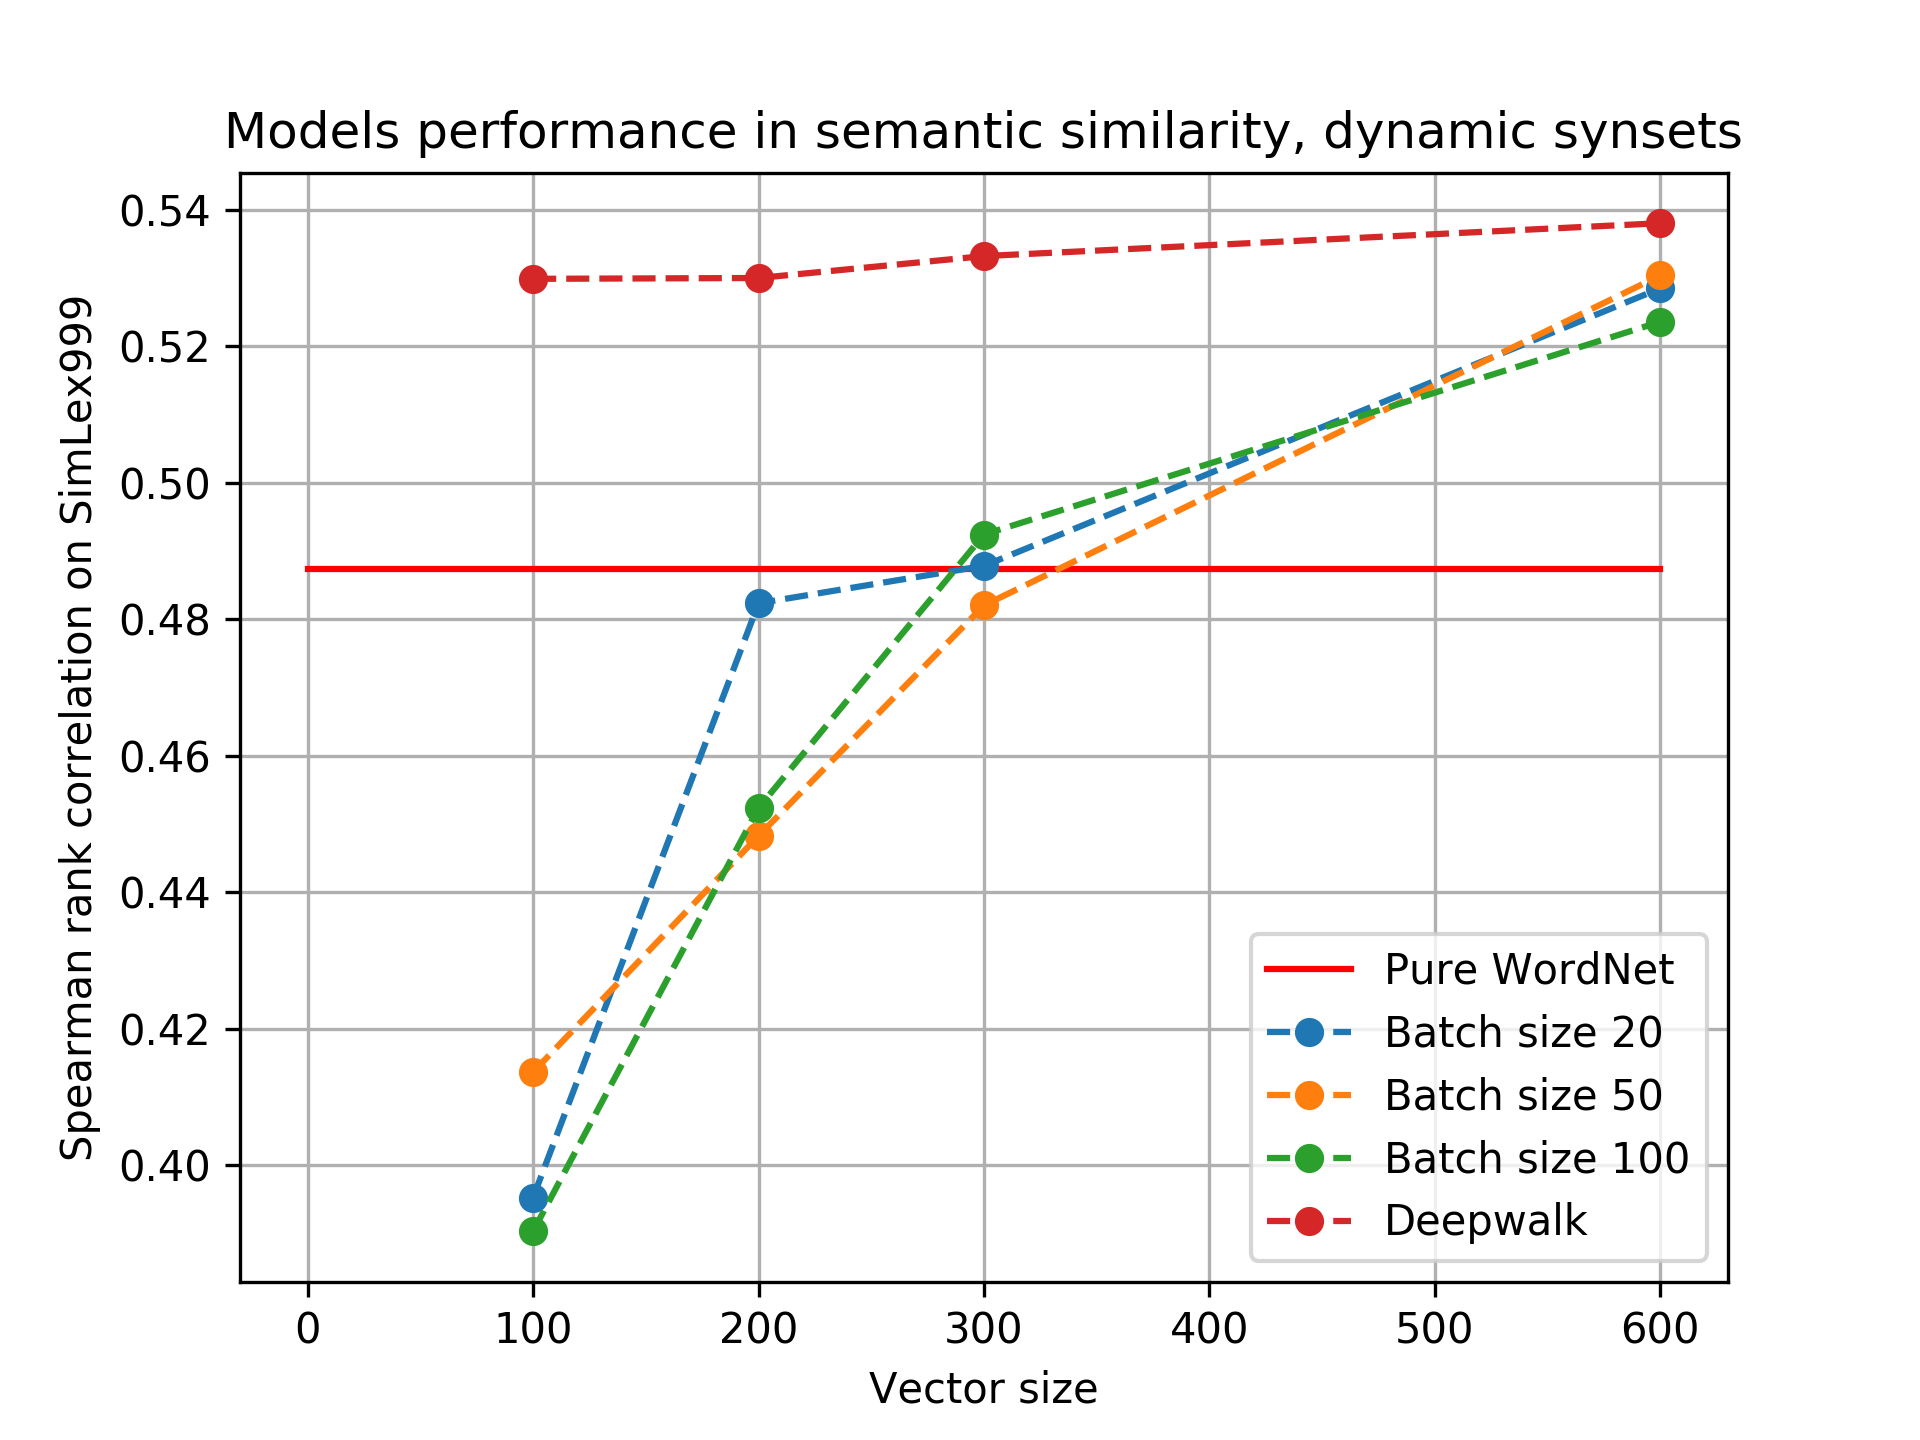
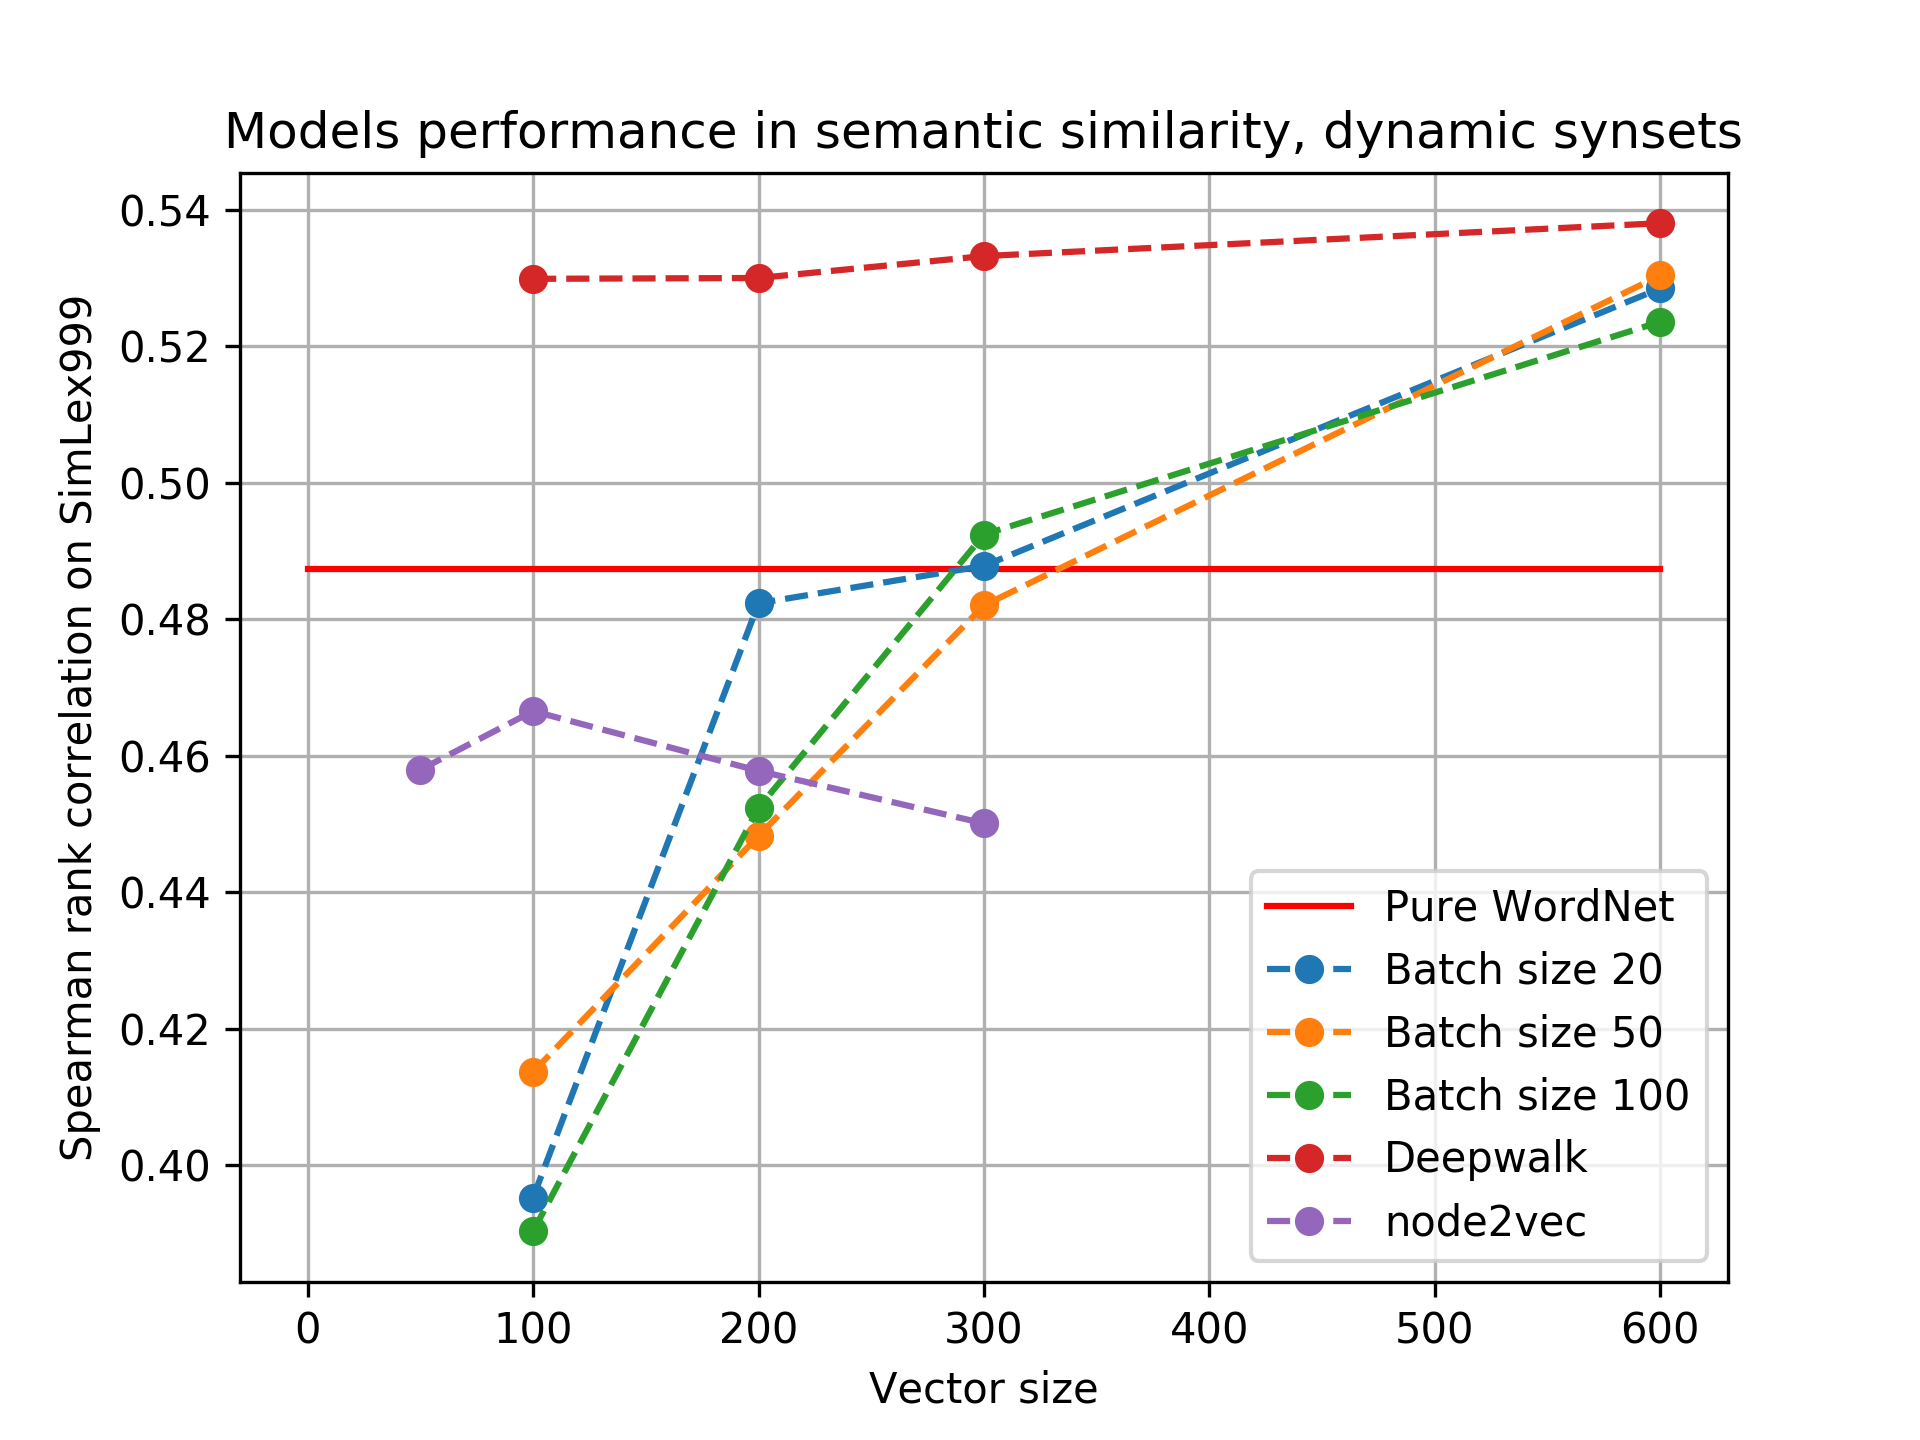
Node2vec results

diff --git a/results/draw.py b/results/draw.py
@@ -52,8 +52,13 @@ plt.plot((0, np.max(vectorsizes)), (graph_score, graph_score), 'red', label='Pur
 for batch in sorted(diff_bsizes):
     x = vectorsizes[batchsizes == batch]
     y = human_scores[batchsizes == batch]
-    plt.plot(x, y, linestyle='dashed', marker='o',
-             label='Deepwalk' if int(batch) == 166 else 'Batch size ' + str(int(batch)))
+    if int(batch) == 166:
+        label = 'Deepwalk'
+    elif int(batch) == 366:
+        label = 'node2vec'
+    else:
+        label = 'Batch size ' + str(int(batch))
+    plt.plot(x, y, linestyle='dashed', marker='o', label=label)
 plt.xlabel('Vector size')
 plt.ylabel('Spearman rank correlation on SimLex999')
 plt.legend(loc='best')
@@ -68,8 +73,13 @@ plt.plot((0, np.max(vectorsizes)), (graph_score, graph_score), 'red', label='Pur
 for batch in sorted(diff_bsizes):
     x = vectorsizes[batchsizes == batch]
     y = dhuman_scores[batchsizes == batch]
-    plt.plot(x, y, linestyle='dashed', marker='o',
-             label='Deepwalk' if int(batch) == 166 else 'Batch size ' + str(int(batch)))
+    if int(batch) == 166:
+        label = 'Deepwalk'
+    elif int(batch) == 366:
+        label = 'node2vec'
+    else:
+        label = 'Batch size ' + str(int(batch))
+    plt.plot(x, y, linestyle='dashed', marker='o', label=label)
 plt.xlabel('Vector size')
 plt.ylabel('Spearman rank correlation on SimLex999')
 plt.legend(loc='best')

diff --git a/results/loss_draw.py b/results/loss_draw.py
@@ -1,0 +1,39 @@
+#!/usr/bin/python3
+# coding: utf-8
+
+import sys
+import numpy as np
+import matplotlib.pyplot as plt
+
+
+values = {}
+
+for line in sys.stdin:
+    if line.strip().startswith('#'):
+        continue
+    res = line.strip().split(',')
+    (model, epoch, loss) = res
+    if model.strip() not in values:
+        values[model] = {'epochs': [], 'losses': []}
+    model = model.strip()
+    epoch = int(epoch.strip())
+    loss = float(loss.strip())
+    values[model]['epochs'].append(epoch)
+    values[model]['losses'].append(loss)
+
+plt.figure()
+
+for model in values:
+    epochs = np.array(values[model]['epochs'])
+    losses = np.array(values[model]['losses'])
+    plt.plot(epochs, losses, linestyle='dashed', marker='o', label=model)
+
+plt.xlabel('Epochs')
+plt.ylabel('Mean squared error')
+plt.legend(loc='best')
+plt.grid(True)
+plt.title('Models learning curves across epochs')
+plt.show()
+# plt.savefig(corpus + '_static_synsets.png', dpi=300)
+plt.close()
+
